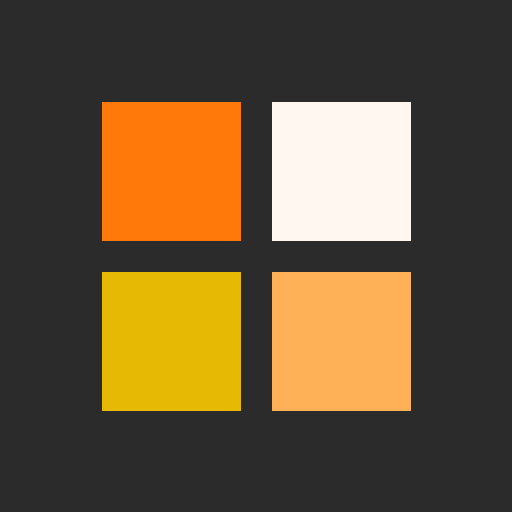
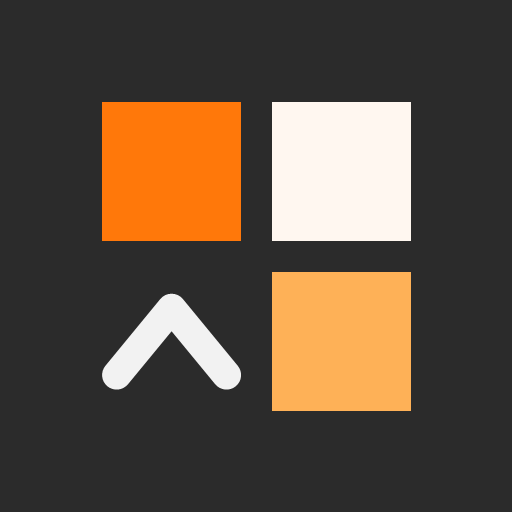
v1.2.1: o icone troca o terceiro quadrado por um ^ branco

Changed region(s): [[0.1875, 0.5312, 0.4688, 0.8125]]

diff --git a/index.html b/index.html
@@ -139,7 +139,7 @@
 </div>
 
 <script>
-const VERSAO = 'v1.2.0';
+const VERSAO = 'v1.2.1';
 const CHAVE = 'painel-de-campo-v1';
 const Q = {
   fazer:    { nome: 'FAZER AGORA', pede: 'é o trabalho de hoje',  cor: 'var(--q-fazer);--cqt:var(--t-fazer)',       imp: true,  urg: true },
